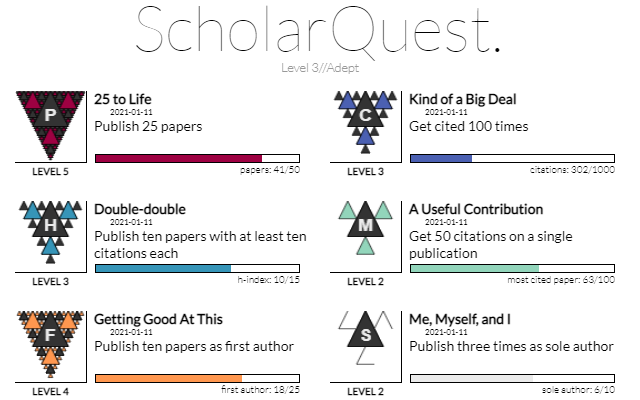
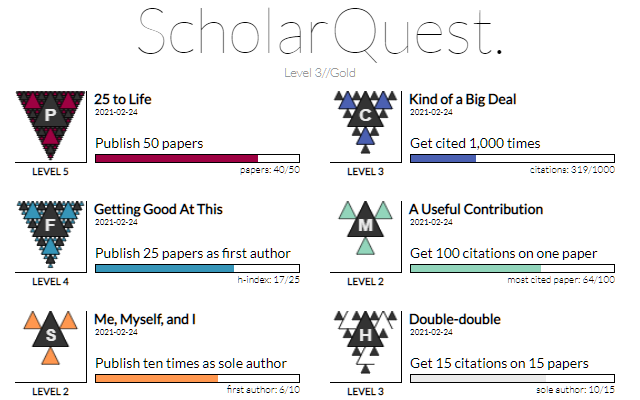
reordered badges

diff --git a/common.js b/common.js
@@ -11,7 +11,8 @@ new points for scholar levels? (e.g. one for each citation) such as:
     + papers  * 100
 */
 
-const achievs = ['papers', 'citations', 'hindex', 'maxcite', 'first', 'solo']
+//const achievs = ['papers', 'citations', 'hindex', 'maxcite', 'first', 'solo']
+const achievs = ['papers', 'citations', 'first', 'maxcite', 'solo', 'hindex']
 const badgeColors = ['#9e0142', '#4b60b2', '#3695b8', '#92d5bb', '#ff974f', '#fff']
 const flips = [0, 0, 0, 1, 1, 1]
 
